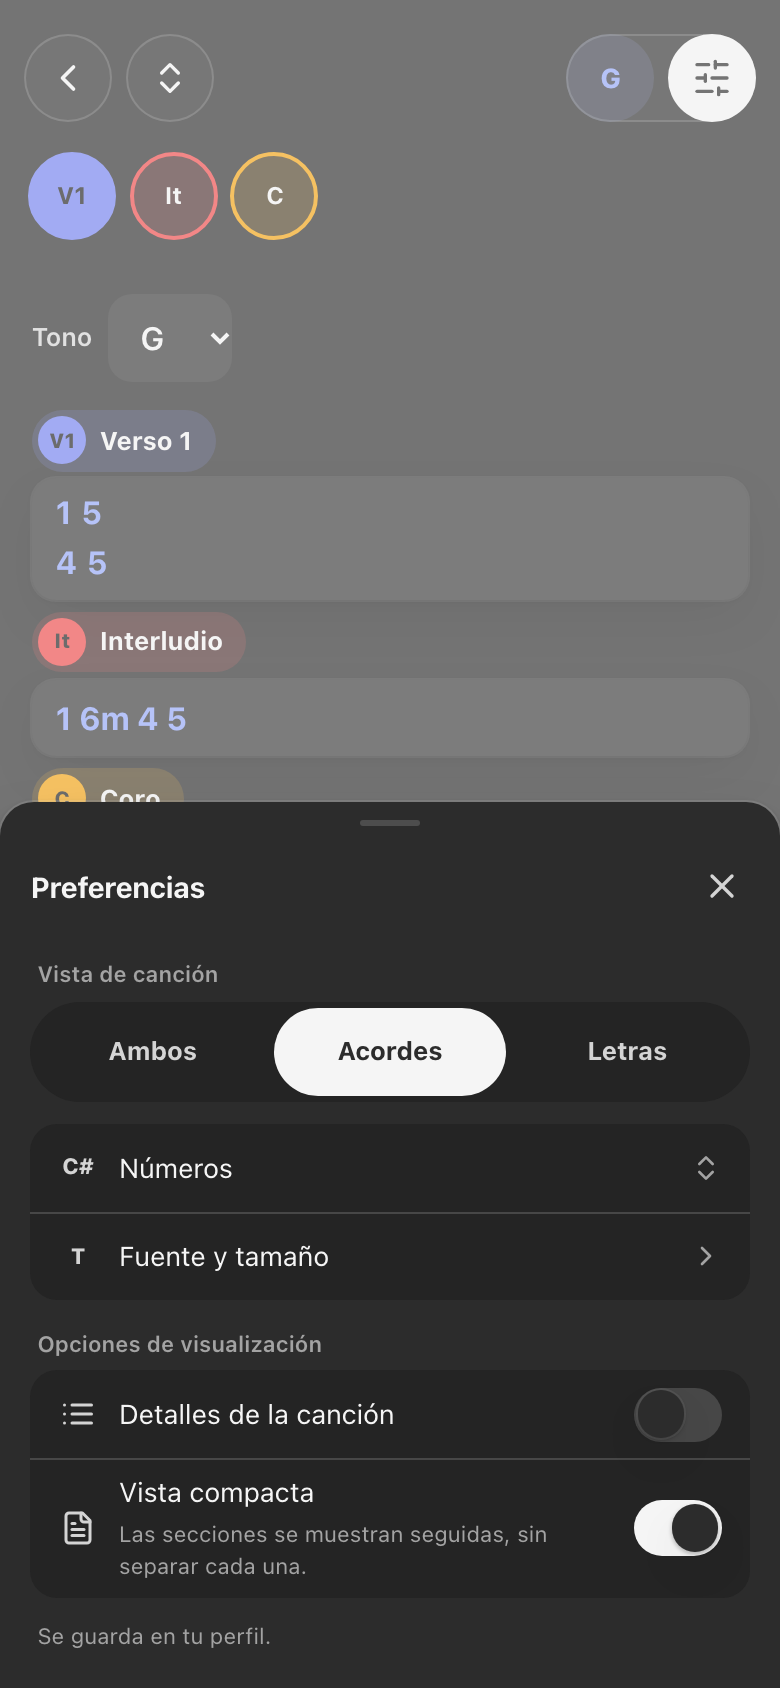
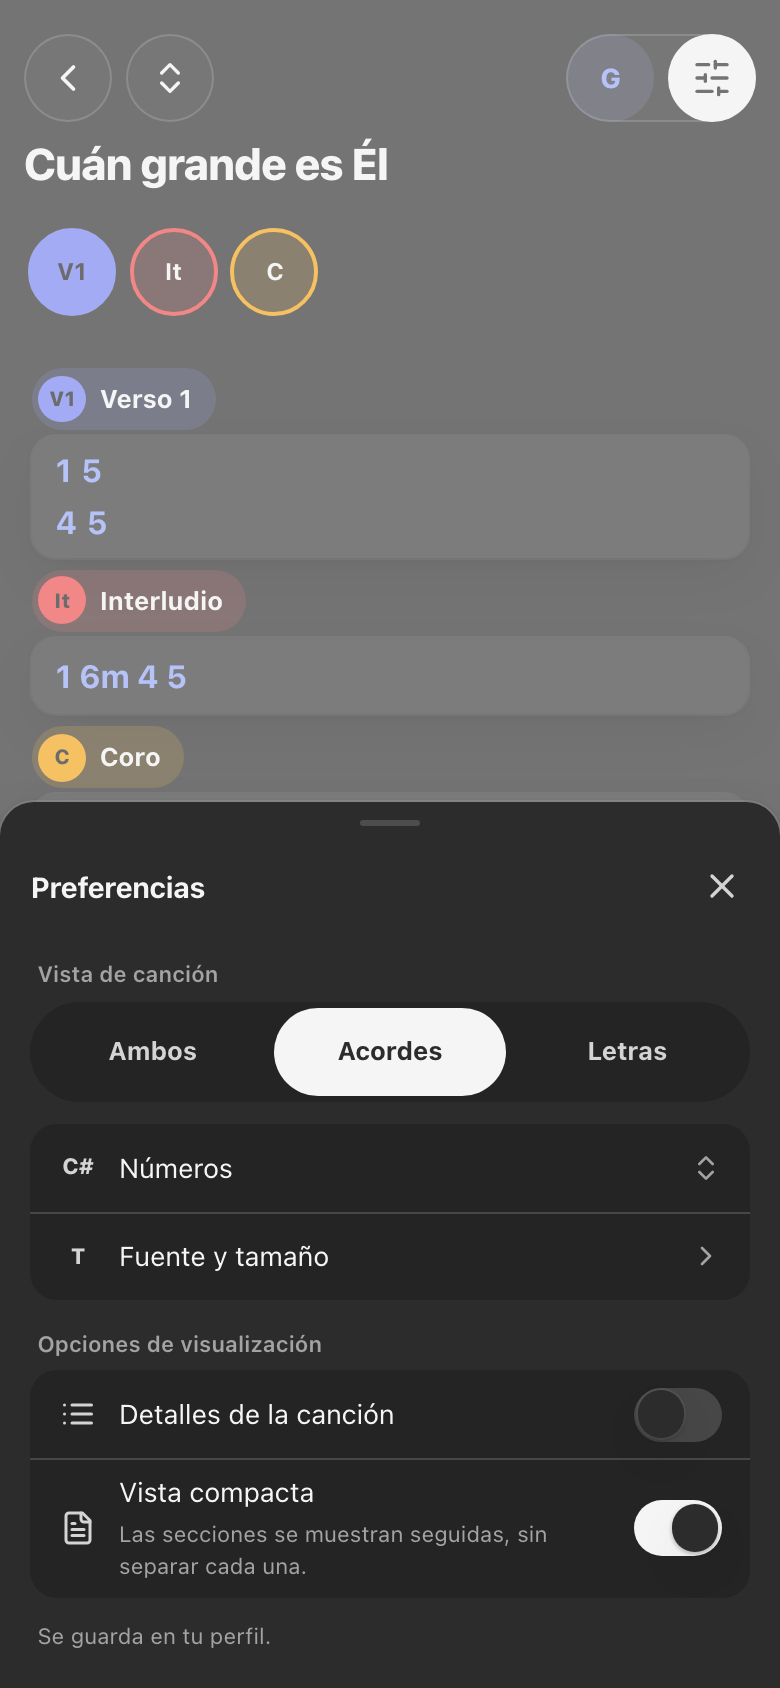
fix(C3b): «Detalles de la canción» apagado deja el título y oculta solo el subtítulo y los créditos
Antes ocultaba toda la cabecera. Ahora el título se queda siempre; apagado quita la línea «artista · bpm · Original X»
y los créditos (autor y traducción). Encendido, como hasta ahora. Prueba unitaria, prueba en navegador, mutaciones y
capturas del caso (sin-detalles y preferencias-guardadas) actualizadas.

Changed region(s): [[0.0308, 0.0616, 0.4923, 0.4929]]

diff --git a/tests/e2e-menus/lectura-c3b.js b/tests/e2e-menus/lectura-c3b.js
@@ -1,6 +1,6 @@
 // Lectura con acordes · C3b (hoja «Preferencias») en un navegador REAL (Chrome por CDP). Servidor simulado en la página; datos INVENTADOS.
 // Qué comprueba: «Ajustes» abre la hoja; sus filas y botones miden ≥ 44 px y caben en pantalla; Vista de canción (Ambos / Acordes / Letras) oculta lo que debe; Notación (Americano / Números) cambia los acordes;
-// «Detalles de la canción» oculta y muestra la cabecera; «Vista compacta» junta las secciones; «Fuente y tamaño» abre la tipografía de siempre; cada cambio viaja como UN parche con la clave justa a /api/portal/preferencias
+// «Detalles de la canción» apagado oculta el subtítulo y los créditos (el título se queda); «Vista compacta» junta las secciones; «Fuente y tamaño» abre la tipografía de siempre; cada cambio viaja como UN parche con la clave justa a /api/portal/preferencias
 // (y nada más); al recargar, las preferencias siguen. A 390 y 360 px, claro y oscuro; guarda las capturas.
 // Uso: construir.sh 3168  →  SOLO="390 dark" BASE=http://127.0.0.1:3168 node tests/e2e-menus/lectura-c3b.js <carpeta-de-capturas>      (sin SOLO corre las cuatro combinaciones en un proceso cada una: usar el bucle de LEEME.md)
 const R = __dirname + '/', { lanzar, sleep } = require(R + 'cdp.js'), fs = require('fs'), M = require(R + 'portal-mock.js')
@@ -99,13 +99,14 @@ async function intento(ancho, tema) {
     ok((await ev(`[...document.querySelectorAll('[data-a]')].map(e=>e.textContent.trim()).filter(Boolean)[0]`)) === 'G', `${et}: «Americano» vuelve a las letras`)
 
     // ── detalles ──
-    ok(await ev(`!!document.querySelector('header h1')`), `${et}: con «Detalles» encendido hay cabecera`)
+    const cab = () => ev(`JSON.stringify({h1:(document.querySelector('header h1')||{}).textContent||null,sub:!!document.querySelector('header p[class*=sub]'),cred:!!document.querySelector('header p[class*=creditos]')})`).then(JSON.parse)
+    const c0 = await cab(); ok(/Cuán grande/.test(c0.h1) && c0.sub && c0.cred, `${et}: con «Detalles» encendido hay título, subtítulo y créditos`)
     await abrir(); await tocar('Detalles de la canción', interr('Detalles')); await esperar(`${interr('Detalles')}.getAttribute('aria-checked')==='false'`, 'detalles apagado'); await cerrar()
-    ok(!(await ev(`!!document.querySelector('header h1')`)) && !(await ev(`!!document.querySelector('header')`)), `${et}: apagado, la cabecera (título, subtítulo y créditos) desaparece`)
+    const c1 = await cab(); ok(/Cuán grande/.test(c1.h1) && !c1.sub && !c1.cred, `${et}: apagado, el título se queda y desaparecen el subtítulo y los créditos`)
     ok(await ev(`!!document.querySelector('ul[aria-label="Partes de la canción"]')`), `${et}: la tira de partes sigue`)
     await foto('sin-detalles')
     await abrir(); await tocar('Detalles de la canción', interr('Detalles')); await cerrar()
-    ok(await ev(`!!document.querySelector('header h1')`), `${et}: encendido otra vez, vuelve la cabecera`)
+    const c2 = await cab(); ok(/Cuán grande/.test(c2.h1) && c2.sub && c2.cred, `${et}: encendido otra vez, vuelven el subtítulo y los créditos`)
 
     // ── vista compacta ──
     const medida = () => ev(`(()=>{const a=document.getElementById('parte-0').getBoundingClientRect(),b=document.getElementById('parte-1').getBoundingClientRect(),t=getComputedStyle(document.querySelector('#parte-0 [class*=tarjeta]'));return JSON.stringify({sep:Math.round(b.top-a.bottom),pad:parseFloat(t.paddingTop),alto:Math.round(a.height)})})()`).then(JSON.parse)
@@ -132,7 +133,7 @@ async function intento(ancho, tema) {
     await abrir(); await tocar('Acordes', radio('Acordes')); await ev(`(()=>{const s=${HOJA}.querySelector('select');s.value='numeros';s.dispatchEvent(new Event('change',{bubbles:true}))})()`); await sleep(200)
     await tocar('Detalles de la canción', interr('Detalles')); await cerrar()
     await abrirCancion()
-    ok(!(await ev(`!!document.querySelector('header')`)) && (await ev(`${visible('[data-t]')}.length`)) === 0 && (await ev(`[...document.querySelectorAll('[data-a]')].map(e=>e.textContent.trim()).filter(Boolean)[0]`)) === '1', `${et}: al recargar siguen: sin cabecera, solo acordes y en números`)
+    ok(!(await cab()).sub && !(await cab()).cred && /Cuán grande/.test((await cab()).h1) && (await ev(`${visible('[data-t]')}.length`)) === 0 && (await ev(`[...document.querySelectorAll('[data-a]')].map(e=>e.textContent.trim()).filter(Boolean)[0]`)) === '1', `${et}: al recargar siguen: sin subtítulo ni créditos (con título), solo acordes y en números`)
     await abrir()
     const est = JSON.parse(await ev(`JSON.stringify({r:[...document.querySelectorAll('[role=radio]')].map(b=>b.getAttribute('aria-checked')),s:[...document.querySelectorAll('[role=switch]')].map(b=>b.getAttribute('aria-checked')),n:${HOJA}.querySelector('select').value})`))
     ok(est.r.join() === 'false,true,false' && est.s.join() === 'false,true' && est.n === 'numeros', `${et}: la hoja refleja lo guardado (vista ${est.r.join('/')}, interruptores ${est.s.join('/')}, notación ${est.n})`)

diff --git a/tests/portal/lectura-c3b.test.js b/tests/portal/lectura-c3b.test.js
@@ -46,10 +46,17 @@ correr(async () => {
     const compacta = R(h(Acordes, { ...base, prefs: { ...L.DEFAULT_LECTURA_PREFS, compacta: true }, c3: { tonoLocal: null, onTonoLocal() {} } })); assert.ok(compacta.includes('compactaC3') && compacta.includes('class="compacta'))
     for (const [vista, clase] of [['acordes', 'soloAcordes'], ['letras', 'soloLetras']]) assert.ok(R(h(Acordes, { ...base, prefs: { ...L.DEFAULT_LECTURA_PREFS, vista }, c3: { tonoLocal: null, onTonoLocal() {} } })).includes(clase), vista)
   })
-  await prueba('pantalla: Ajustes abre la hoja de Preferencias, «detalles» oculta la cabecera, y CancionPortal no hace la lectura de preferencias por su cuenta (revisión del código fuente)', () => {
+  await prueba('pantalla: Ajustes abre la hoja de Preferencias, «detalles» apagado oculta el subtítulo y los créditos pero deja el título, y CancionPortal no hace la lectura de preferencias por su cuenta (revisión del código fuente)', () => {
     const l = leer('app/portal/_components/lectura/LecturaCancion.tsx'), b = leer('app/portal/_components/lectura/BarraCancion.tsx')
-    assert.ok(l.includes('{prefs.detalles && <CabeceraCancion') && l.includes('<HojaPreferencias') && l.includes('onAjustes={() => setPrefsAbiertas(true)}')); assert.ok(!/VentanaTipografia/.test(b), 'la barra ya no abre la ventana de tipografía: abre Preferencias')
+    assert.ok(l.includes('detalles={prefs.detalles} />') && !l.includes('{prefs.detalles && <CabeceraCancion') && l.includes('<HojaPreferencias') && l.includes('onAjustes={() => setPrefsAbiertas(true)}')); assert.ok(!/VentanaTipografia/.test(b), 'la barra ya no abre la ventana de tipografía: abre Preferencias')
     assert.ok(!/useLecturaAcordes/.test(leer('app/portal/_components/CancionPortal.tsx')))
+  })
+  await prueba('«Detalles de la canción»: encendido (o sin decir) la cabecera es la de siempre; apagado deja SOLO el título y quita «artista · bpm · Original X» y los créditos (autor y traducción)', () => {
+    const Cab = require(path.join(RAIZ, 'components/canciones/lectura/CabeceraCancion.tsx')).default
+    const datos = { titulo: 'Un título de prueba', artista: 'Artista de prueba', bpm: 72, original: 'G', autor: 'Autora de prueba', traductor: 'Traductor de prueba' }
+    for (const d of [{}, { detalles: true }]) { const html = R(h(Cab, { ...datos, ...d })); assert.ok(html.includes('<h1') && html.includes('Un título de prueba') && html.includes('Artista de prueba · 72 bpm · Original G') && html.includes('Letra y Música:') && html.includes('Traducción por:'), JSON.stringify(d)) }
+    const sin = R(h(Cab, { ...datos, detalles: false }))
+    assert.ok(sin.includes('<h1') && sin.includes('Un título de prueba'), 'el título se queda'); assert.ok(!sin.includes('Artista de prueba') && !sin.includes('72 bpm') && !sin.includes('Original G'), 'sin subtítulo'); assert.ok(!sin.includes('Letra y Música') && !sin.includes('Traducción por') && !sin.includes('Autora de prueba'), 'sin créditos')
   })
   await prueba('CSS de la hoja: tokens de la app, sin colores fijos, tamaños en rem salvo las zonas táctiles; vista compacta con reglas propias de la lectura nueva', () => {
     const css = leer('app/portal/_components/lectura/hoja-preferencias.module.css'), c3 = leer('components/canciones/lectura/hoja-c3.module.css')

diff --git a/components/canciones/lectura/CabeceraCancion.tsx b/components/canciones/lectura/CabeceraCancion.tsx
@@ -1,14 +1,15 @@
 // La cabecera de la lectura (etapa C3a): el título y «artista · bpm · Original X». Lo que falta no se muestra (ni el separador).
+// `detalles` (Preferencias → «Detalles de la canción»): apagado oculta SOLO el subtítulo y los créditos; el título se queda siempre.
 import { TEXTOS_ACORDES as T } from '@/lib/textos/acordesLectura'
 import ui from './lectura-partes.module.css'
 
-export default function CabeceraCancion({ titulo, artista, bpm, original, autor, traductor }: { titulo: string; artista?: string | null; bpm?: number | null; original?: string | null; autor?: string | null; traductor?: string | null }) {
+export default function CabeceraCancion({ titulo, artista, bpm, original, autor, traductor, detalles = true }: { titulo: string; artista?: string | null; bpm?: number | null; original?: string | null; autor?: string | null; traductor?: string | null; detalles?: boolean }) {
   const partes = [artista?.trim() || '', bpm && bpm > 0 ? T.bpm(bpm) : '', original ? `${T.original} ${original}` : ''].filter(Boolean)
   return (
     <header className={ui.cabecera}>
       <h1 className={ui.titulo}>{titulo}</h1>
-      {partes.length > 0 && <p className={ui.sub}>{partes.join(' · ')}</p>}
-      {(autor || traductor) && (
+      {detalles && partes.length > 0 && <p className={ui.sub}>{partes.join(' · ')}</p>}
+      {detalles && (autor || traductor) && (
         <p className={ui.creditos}>
           {autor && <><b>Letra y Música:</b> {autor}</>}{autor && traductor && <br />}
           {traductor && <><b>Traducción por:</b> {traductor}</>}

diff --git a/app/portal/_components/lectura/LecturaCancion.tsx b/app/portal/_components/lectura/LecturaCancion.tsx
@@ -56,7 +56,7 @@ export default function LecturaCancion({ token, hoja, artista, bpm, acordes, ton
   return (
     <div className={coloresUi.colores}>
       <BarraCancion etiquetaVolver={etiquetaVolver} onVolver={onVolver} partes={partes} activa={activa} onIr={irA} tono={tono} onTono={() => setTonoAbierto({ alAbrir: tonoLocal })} hayAdjuntos={hayAdjuntos} onAdjuntos={alAdjuntos} onAjustes={() => setPrefsAbiertas(true)} ajustesAbiertos={prefsAbiertas} />
-      {prefs.detalles && <CabeceraCancion titulo={hoja.nombre} artista={artista} bpm={bpm} original={acordes.tono} autor={hoja.autor} traductor={hoja.traductor} />}
+      <CabeceraCancion titulo={hoja.nombre} artista={artista} bpm={bpm} original={acordes.tono} autor={hoja.autor} traductor={hoja.traductor} detalles={prefs.detalles} />
       <TiraPartes partes={partes} activa={activa} onIr={irA} />
       <HojaAcordes title={hoja.nombre} originalTitle={hoja.original_title || undefined} ccli={hoja.ccli || undefined} copyright={hoja.copyright || undefined}
         hoja={acordes} tonoServicio={tonoServicio} prefs={prefs} onPrefs={elegir} errPrefs={errPrefs} typography={tipografia.prefs} c3={{ tonoLocal, onTonoLocal: setTonoLocal }} />

diff --git a/docs/verificacion-rediseno/lectura-c3b/LEEME.md b/docs/verificacion-rediseno/lectura-c3b/LEEME.md
@@ -1,10 +1,10 @@
 # Lectura con acordes · C3b (hoja «Preferencias»)
 
-Rama `lectura-c3`. «Ajustes» (la barra de arriba) abre la hoja **Preferencias**: Vista de canción (Ambos / Acordes / Letras), Notación (Americano / Números), «Fuente y tamaño», «Detalles de la canción» (muestra u oculta la cabecera) y «Vista compacta». Todo se guarda al instante en el perfil de la persona (`members.chart_prefs.lectura`, por `/api/portal/preferencias`).
+Rama `lectura-c3`. «Ajustes» (la barra de arriba) abre la hoja **Preferencias**: Vista de canción (Ambos / Acordes / Letras), Notación (Americano / Números), «Fuente y tamaño», «Detalles de la canción» (muestra u oculta el subtítulo y los créditos) y «Vista compacta». Todo se guarda al instante en el perfil de la persona (`members.chart_prefs.lectura`, por `/api/portal/preferencias`).
 
 - **«Exportar canción» no existe todavía**: queda fuera.
 - **«Fuente y tamaño»** abre por ahora la ventana de tipografía de siempre; la pantalla propia (mockup Fuente) llega en C3c.
-- **«Detalles de la canción»** apagado oculta TODA la cabecera (título, «artista · bpm · Original X» y créditos). Campo nuevo `detalles` dentro de `lectura` (sin migración: es un jsonb); vale `true` salvo que se apague.
+- **«Detalles de la canción»** apagado oculta solo la línea «artista · bpm · Original X» y los créditos (autor y traducción); **el título se queda siempre**. Campo nuevo `detalles` dentro de `lectura` (sin migración: es un jsonb); vale `true` salvo que se apague.
 - **Notación**: la barra ABC/123 de C1 ya no se dibuja en la lectura nueva (vive en Preferencias).
 
 Prueba en navegador real (Chrome por CDP, servidor simulado en la página, datos inventados): `tests/e2e-menus/lectura-c3b.js`, 24 comprobaciones por combinación (390 y 360 px, claro y oscuro). Se corre una combinación por proceso:
@@ -20,10 +20,10 @@ BASE=http://127.0.0.1:3168 tests/e2e-menus/correr-combinaciones.sh tests/e2e-men
 | `vista-acordes` | «Acordes»: solo los acordes | Solo-Acordes |
 | `vista-letras` | «Letras»: solo la letra | Solo-Letra |
 | `notacion-numeros` | «Números» | — |
-| `sin-detalles` | «Detalles» apagado: sin cabecera | — |
+| `sin-detalles` | «Detalles» apagado: el título se queda, sin subtítulo ni créditos | — |
 | `compacta` | «Vista compacta» | — |
 | `preferencias-guardadas` | tras recargar, la hoja refleja lo guardado | — |
 
 `comparativas/`: mockup a la izquierda, captura a la derecha (390 px). Los mockups traen las píldoras antiguas de partes; ya no hay que seguirlas.
 
-Provisional hasta C3d: la píldora del tono lleva todavía al selector de tono de C1.
+(La píldora del tono abre «Previsualizar tonalidad» desde C3d.)
